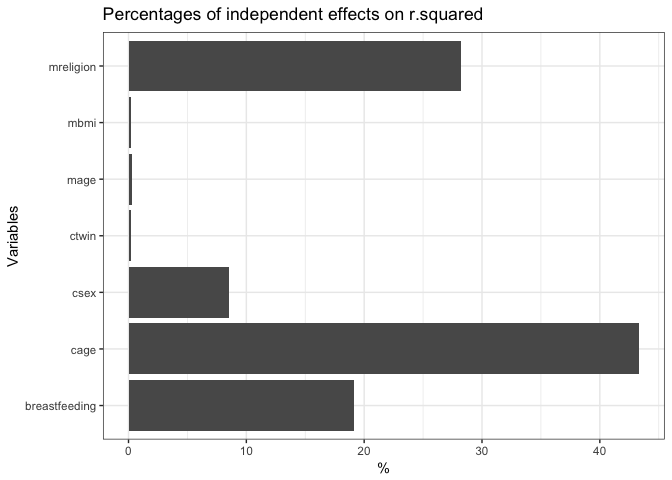
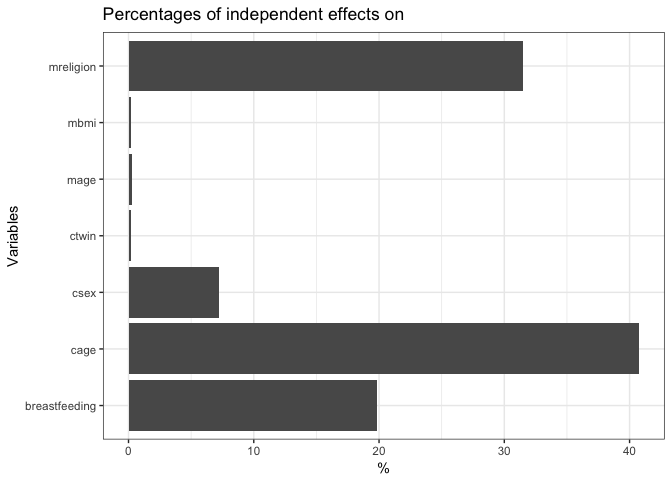
Add support for gamlss models (Fixes #2)

diff --git a/README.md b/README.md
@@ -23,36 +23,93 @@ Example: Partitioning of rsquared in linear regression
 Just call the ghp function with dependent and independent variables to obtain it's independent and joint effects:
 
 ``` r
-india <- ghp::india
+india <- na.omit(ghp::india)
 dep <- india$stunting
 indep <- subset(india, select = -c(stunting))
-results <- ghp(dep, indep, method = "lm", gof = "r.squared")
-results
+results_lm <- ghp(dep, indep, method = "lm", gof = "r.squared")
+results_lm
 #> $actual
 #>                          I             J        Total
-#> cage          0.0195242429  7.010337e-03 2.653458e-02
-#> csex          0.0038311510  4.663011e-04 4.297452e-03
-#> breastfeeding 0.0086394177  4.698817e-03 1.333823e-02
-#> ctwin         0.0001131213  1.567455e-04 2.698668e-04
-#> mage          0.0001288067 -6.390926e-05 6.489747e-05
-#> mbmi          0.0001005444 -9.466058e-06 9.107838e-05
-#> mreligion     0.0127136252  8.025658e-05 1.279388e-02
+#> cage          1.836518e-02  5.866361e-03 2.423154e-02
+#> csex          3.244890e-03 -3.470725e-05 3.210182e-03
+#> breastfeeding 8.920133e-03  4.418101e-03 1.333823e-02
+#> ctwin         1.067918e-04  1.565171e-04 2.633089e-04
+#> mage          1.137771e-04 -8.484668e-05 2.893047e-05
+#> mbmi          9.587312e-05 -8.941648e-05 6.456648e-06
+#> mreligion     1.420427e-02  1.437252e-03 1.564152e-02
 #> 
 #> $perc
-#>                        I           J
-#> cage          43.3381771 56.81409229
-#> csex           8.5040482  3.77905868
-#> breastfeeding 19.1770106 38.08076367
-#> ctwin          0.2510967  1.27031735
-#> mage           0.2859137 -0.51794179
-#> mbmi           0.2231796 -0.07671607
-#> mreligion     28.2205740  0.65042586
-#> 
-#> attr(,"gof")
-#> [1] "r.squared"
+#>                        I          J
+#> cage          40.7653840 50.2719150
+#> csex           7.2027171 -0.2974246
+#> breastfeeding 19.8001178 37.8610212
+#> ctwin          0.2370470  1.3412769
+#> mage           0.2525524 -0.7270956
+#> mbmi           0.2128106 -0.7662566
+#> mreligion     31.5293711 12.3165636
 ```
 
 The first dataframe captures the actual mean influence of the variable on the goodness-of-fit. Also, joint effects are calculated. The second dataframe shows the percentage influence. We can see that `cage` has the highest influence with (~43%).
+
+Example: Partitioning of deviance in gamlss models
+--------------------------------------------------
+
+It is now possible to do deviance partitiong of gamlss models. Gamlss models can model multiple parameters of a distribution. `ghp` can handle up to two modeled parameters, so you can find out what influence covariates have on the second modeled parameter (e.g. the variance).
+
+``` r
+results_gamlss <- ghp(dep, indep, method = "gamlss", 
+                      gof = "deviance", npar = 2)
+#> Warning in is.na(data): is.na() applied to non-(list or vector) of type
+#> 'NULL'
+#> Warning in RS(): Algorithm RS has not yet converged
+
+#> Warning in RS(): Algorithm RS has not yet converged
+
+#> Warning in RS(): Algorithm RS has not yet converged
+results_gamlss
+#> $mu
+#> $mu$actual
+#>                         I        J    Total
+#> cage          -7.61381060 7362.526 7354.912
+#> csex          -1.34759816 7364.892 7363.545
+#> breastfeeding -3.68367916 7363.092 7359.409
+#> ctwin         -0.04358676 7364.784 7364.740
+#> mage          -0.04754386 7364.883 7364.835
+#> mbmi          -0.03978509 7364.884 7364.844
+#> mreligion     -5.89338185 7364.355 7358.462
+#> 
+#> $mu$perc
+#>                        I        J
+#> cage          40.7823311 14.28246
+#> csex           7.2182245 14.28705
+#> breastfeeding 19.7311217 14.28356
+#> ctwin          0.2334665 14.28684
+#> mage           0.2546621 14.28703
+#> mbmi           0.2131034 14.28704
+#> mreligion     31.5670907 14.28601
+#> 
+#> 
+#> $sigma
+#> $sigma$actual
+#>                        I        J    Total
+#> cage          -66.432641 7366.900 7300.467
+#> csex          -28.105884 7379.226 7351.120
+#> breastfeeding -50.695336 7376.408 7325.713
+#> ctwin          -5.458284 7366.134 7360.676
+#> mage          -43.138047 7407.513 7364.375
+#> mbmi           -4.116063 7367.027 7362.910
+#> mreligion     -62.623189 7387.658 7325.034
+#> 
+#> $sigma$perc
+#>                       I        J
+#> cage          25.495177 14.26288
+#> csex          10.786332 14.28674
+#> breastfeeding 19.455595 14.28129
+#> ctwin          2.094752 14.26140
+#> mage          16.555298 14.34151
+#> mbmi           1.579641 14.26312
+#> mreligion     24.033205 14.30307
+```
 
 Bar Plots
 ---------
@@ -60,7 +117,7 @@ Bar Plots
 To get a bar plot of the percentage independent effects, use `plot_ghp()`:
 
 ``` r
-plot_ghp(results)
+plot_ghp(results_lm)
 ```
 
 ![](figures/barplot-1.png)
@@ -74,8 +131,8 @@ Unfortunately, `ghp` is slower than the original `hier.part` package, mostly bec
 system.time(hier.part::hier.part(dep, indep, gof = "Rsqu", barplot = FALSE))
 #> Loading required package: gtools
 #>    user  system elapsed 
-#>   0.347   0.004   0.352
+#>   0.332   0.004   0.347
 system.time(ghp::ghp(dep, indep, method = "lm", gof = "r.squared"))
 #>    user  system elapsed 
-#>   4.026   0.036   4.076
+#>   4.134   0.047   4.227
 ```
